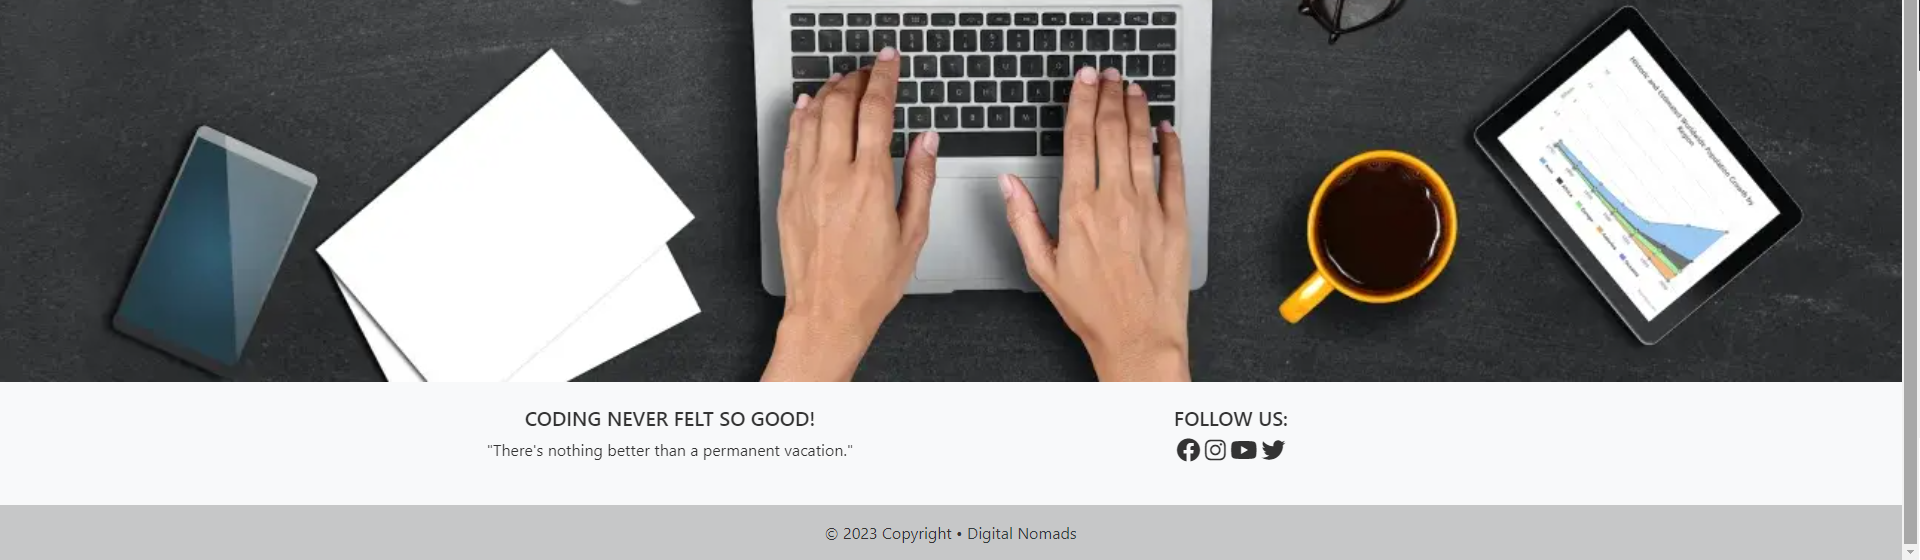
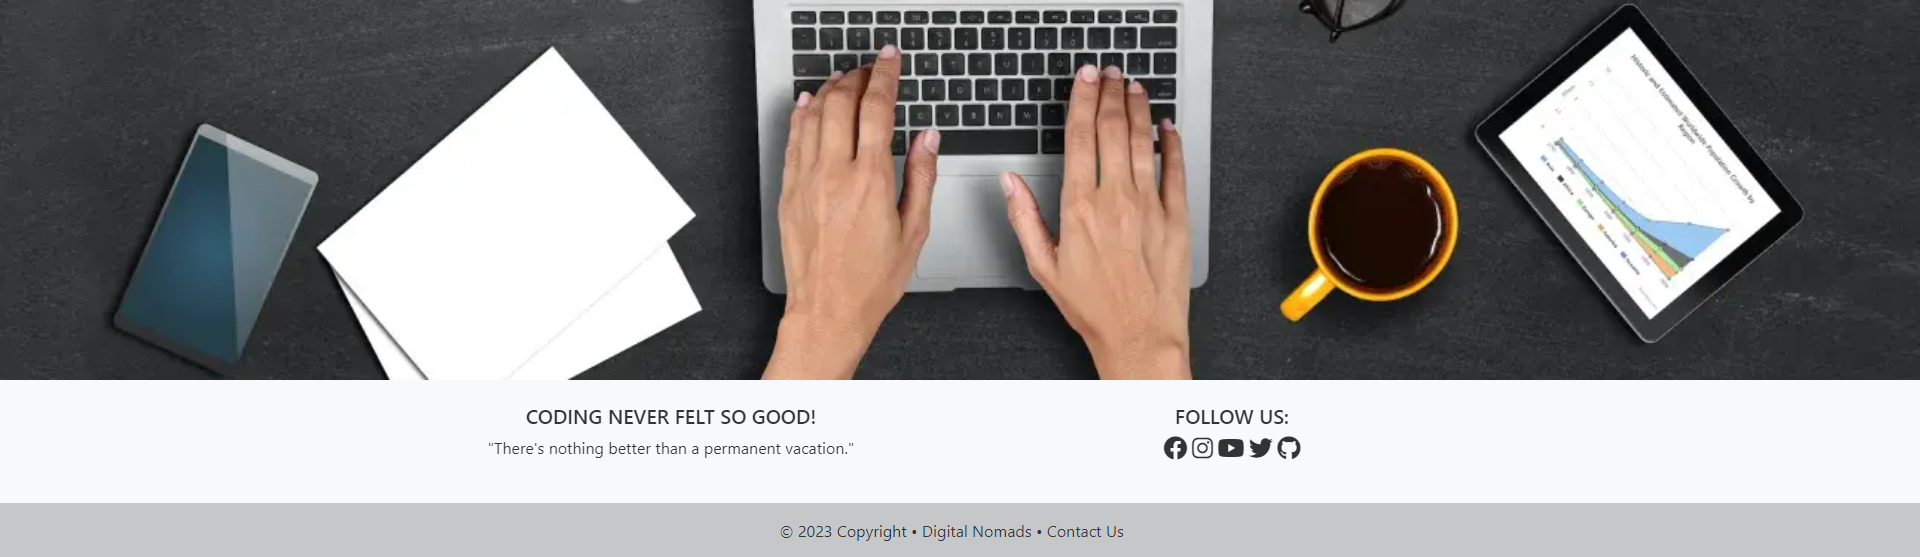
update read.me

diff --git a/TESTING.md b/TESTING.md
@@ -38,6 +38,8 @@ Manual testing has been performed by exploiting test case scenarios.
 | Visit the Home page | Click on Home link | Reg./Non-Reg. Users | - On the navbar of the webite click on Home | Opens the Homepage in the same page | The Home page is open | Approved |
 | Visit the About page | Click on About link | Reg./Non-Reg. Users | - On the navbar of the website click on About | Opens the About page in the same page | The About page is open | Approved  
 | Visit the Login page | Click on Login link | Reg./Non-Reg. Users | - On the navbar of the website click on Login | Opens the Login page in the same page | The Login page is open | Approved  
+| Visit the Guild page | Click on Guild link | Reg./(Non-Reg. Users*) | (if authenticated) - On the navbar of the website click on Guild | Opens the Guild page in the same page | The Guild page is open | Approved  
+| Visit the a User/Profile page from the Guild | Click on Guild link | Reg./(Non-Reg. Users*) | (if authenticated) - Inside the Guild page -> Click the username of a User | Opens a User profile page in the same page | A Profile page is open | Approved  
 | Log into a User account | On the Login page input the Login credentials and hit Login | Registered Users | - Input the login credentials(Username/Password) -> Click Login | Logs the User | The User is logged in | Approved   
 | Log out from a User account | Click on Logout link | Registered Users | (if authenticated) - On the navbar of the website click on Logout | Logs the User out | The User is logged out | Approved  
 | Visit the Register page | Click on Register link | Reg./Non-Reg. Users | - On the navbar of the website click on Register | Opens the Register page in the same page | The Register page is open | Approved  

diff --git a/README.md b/README.md
@@ -78,7 +78,7 @@ One/Many Profiles can create many Posts. Many Comments can be created in many Po
 <img src="media/readme_img/relationshipdiagram.png" alt="Relationship Diagram">
 
 ## Navbar, Header & Favicon
-- The Navbar features from left to right the [Logo], [Home], [About], [Login], [Register] and the [Search] fields. Furthermore, for Users who are logged in, the [Post], [Profile] and [Logout] links.
+- The Navbar features from left to right the [Logo], [Home], [About], [Login], [Register] and the [Search] fields. Furthermore, for Users who are logged in, the [Post], [Profile], [Guild] and [Logout] links.
 - The links guide Users to the respective pages and remain "active" when and if on that page, with the exception of [Post].
 - The Header features an image that splits in half, sharing the rest with the Footer.
 - On the browser's tab, the Favicon and Logo of the website can be found, a red cog.
@@ -86,7 +86,7 @@ One/Many Profiles can create many Posts. Many Comments can be created in many Po
 <img src="media/readme_img/headernavpanel.png" alt="Navigation & Header">
 
 ## Footer
-- The Footer is best defined by Bootstrap's template. It features a slogan on the left side and on the right, the Social Media links. At the very bottom, a copyright notice.
+- The Footer is best defined by Bootstrap's template. It features a slogan on the left side and on the right, the Social Media links (Facebook, Instagram, Youtube, Twitter & Github). At the very bottom, a copyright notice followe by a Contact Us link to a form.
 - Above the Footer is the rest of the image shared with the Header: the keyboard of a laptop.
 - Users can open the Social Media links and respective pages on new tabs.
 
